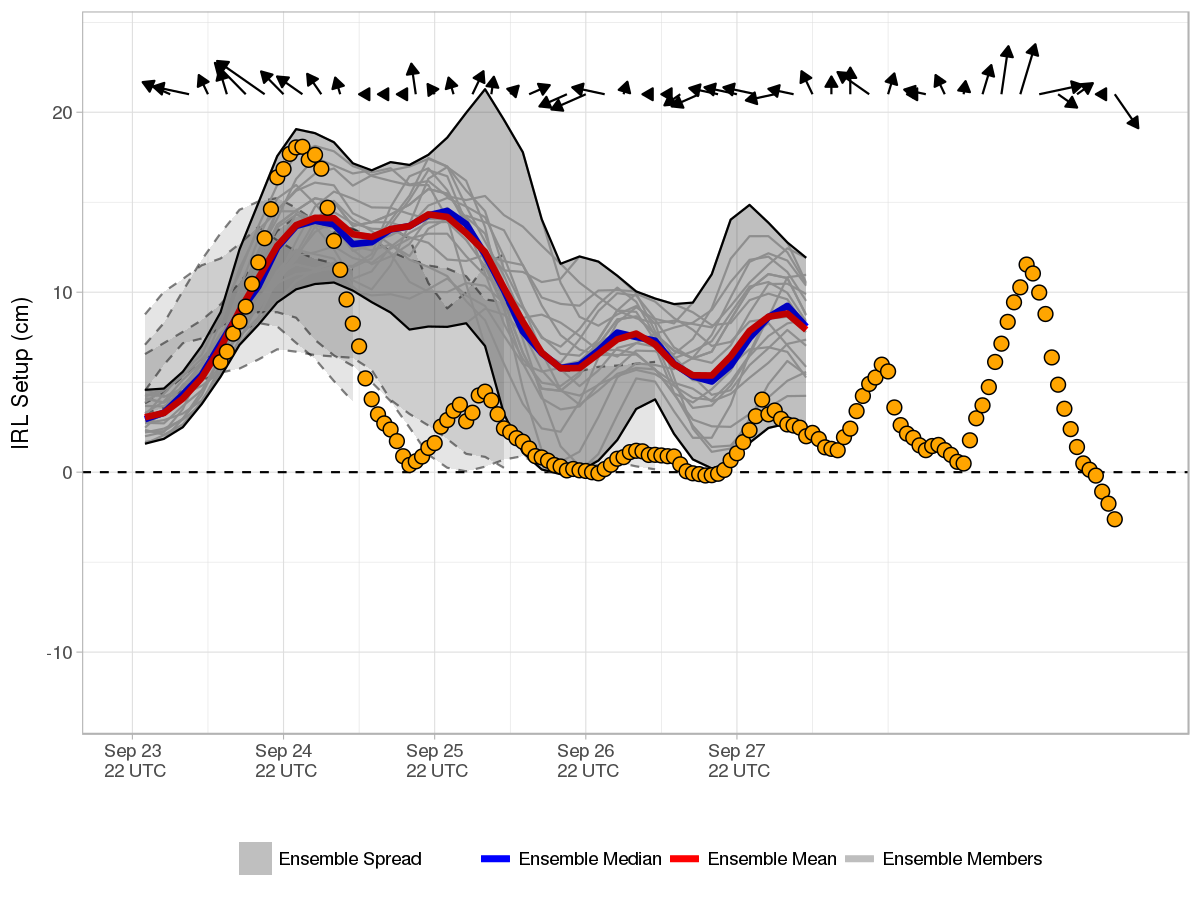
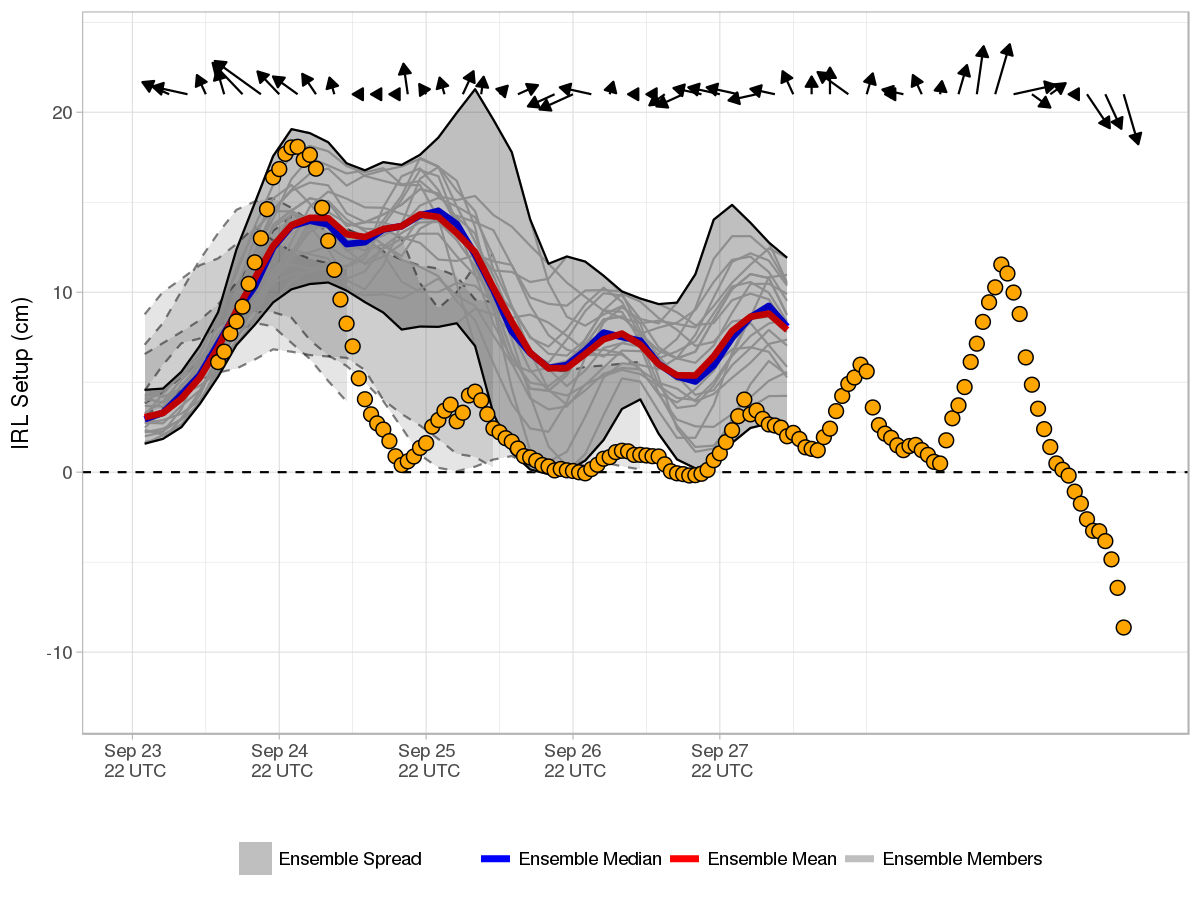
Forecast Update 2020093012

diff --git a/docs/index.md b/docs/index.md
@@ -1,9 +1,9 @@
-Current Forecast 2020-09-30 06Z
+Current Forecast 2020-09-30 12Z
 -----------------------------------
 
 [![](img/raw_setup.png)](https://fit-winds.github.io/IRLSetup/img/raw_setup.png)
 
-> Forecast valid 2020-09-30 07:01:10.
+> Forecast valid 2020-09-30 13:00:25.
 
 Explanation
 -----------
